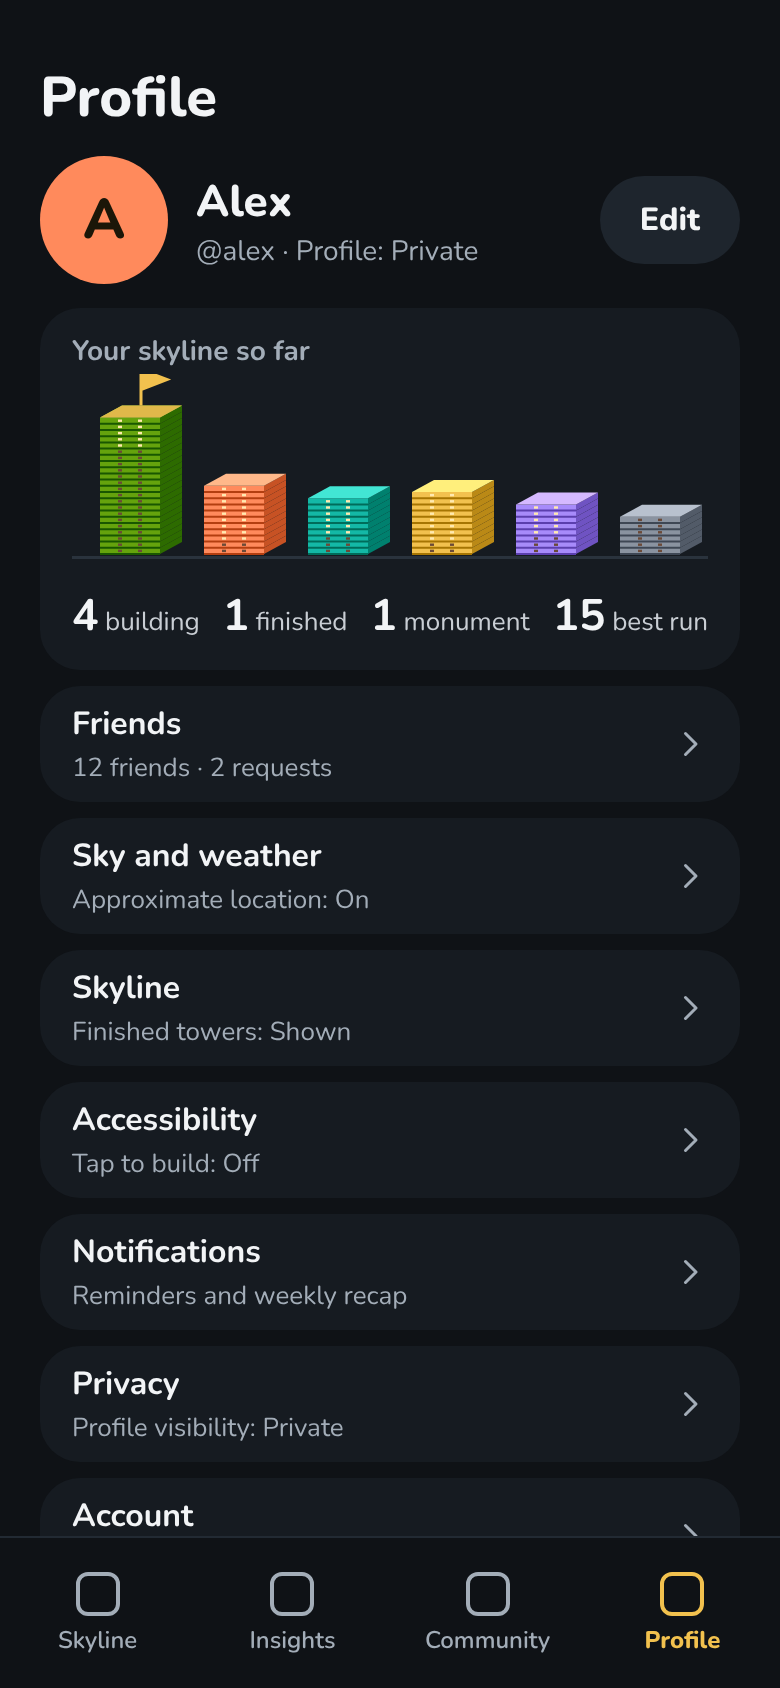
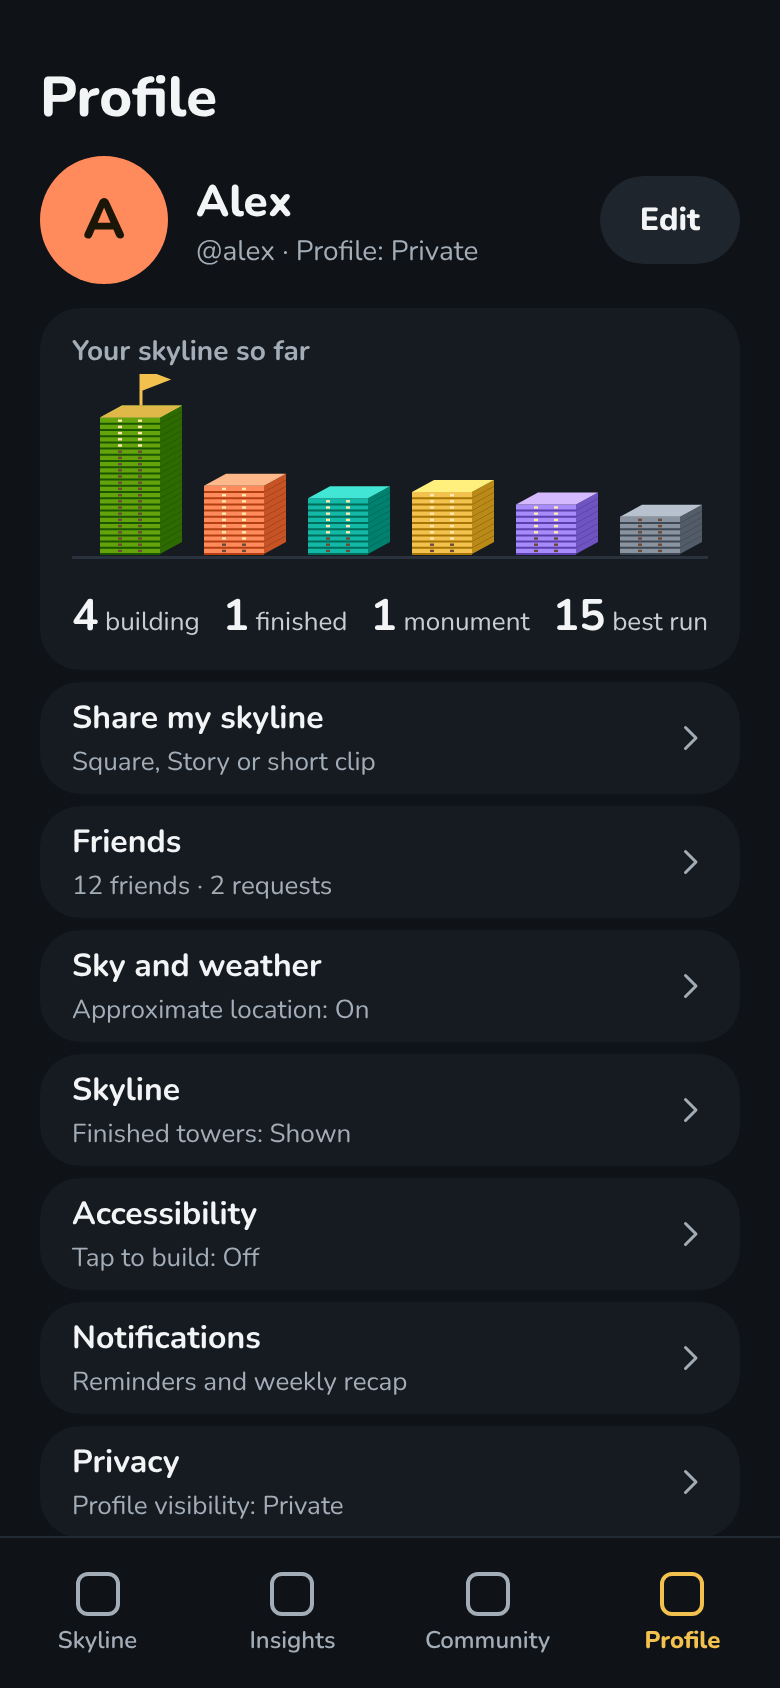
Design: share entry points on tower sheet and Profile
Claude-Session: https://claude.ai/code/session_01UvWD32uMFJU1E2B9jDYiLg

diff --git a/design/skyline/source/old.js b/design/skyline/source/old.js
@@ -70,12 +70,12 @@ if(S3==='ch-detail'){
 if(S3==='pf-profile'){
   const T=[['#65A30D',22,5,'top'],['#FF8A5C',11,9],['#14B8A6',9,6],['#F2C14E',10,8],['#A78BFA',8,5],['#8A93A0',6,0,'mon']];
   let sc='';T.forEach(([c,n,l,k],i)=>{const x=14+i*52;const fl=k==='mon'?rep('dark',n):grow(n,l);sc+=tw(c,{x,base:90,w:30,fh:3.1,dx:11,dy:6,floors:fl,windows:2,today:false,wW:2,wH:1.2});if(k==='top')sc+=flagCap(x,90-n*3.1,30,11,6)});
-  const row=(t,s)=>`<div style="background:#161B21;border-radius:20px;padding:8px 16px;display:flex;align-items:center;gap:10px;margin-top:8px"><div style="flex:1"><b style="font-size:16px">${t}</b><div style="color:#A3ADB8;font-size:13px;margin-top:2px">${s}</div></div>${ico('chev',18,'#A3ADB8')}</div>`;
+  const row=(t,s)=>`<div style="background:#161B21;border-radius:20px;min-height:56px;padding:0 16px;display:flex;align-items:center;gap:10px;margin-top:6px"><div style="flex:1"><b style="font-size:16px">${t}</b><div style="color:#A3ADB8;font-size:13px;margin-top:2px">${s}</div></div>${ico('chev',18,'#A3ADB8')}</div>`;
   R.innerHTML=`<div style="position:absolute;inset:0;overflow:hidden"><div style="padding:30px 20px 0"><h1 style="font-size:28px">Profile</h1>
    <div style="display:flex;align-items:center;gap:14px;margin-top:10px"><div style="width:64px;height:64px;border-radius:32px;background:#FF8A5C;color:#1b1608;font-weight:800;font-size:28px;display:flex;align-items:center;justify-content:center">A</div><div style="flex:1"><div style="font-size:22px;font-weight:800">Alex</div><div style="color:#A3ADB8;font-size:14px">@alex · Profile: Private</div></div><div style="height:44px;padding:0 20px;border-radius:22px;background:#1E252D;display:flex;align-items:center;font-weight:800;font-size:16px">Edit</div></div>
    <div style="margin-top:12px;background:#161B21;border-radius:20px;padding:12px 16px"><div style="color:#A3ADB8;font-size:14px;font-weight:700">Your skyline so far</div><svg width="318" height="98" style="display:block;margin-top:2px">${sc}<rect x="0" y="91" width="318" height="1.5" fill="#2A333D"/></svg>
     <div style="display:flex;justify-content:space-between;margin-top:8px;font-size:13px;color:#C9CED4">${[['4','building'],['1','finished'],['1','monument'],['15','best run']].map(([v,l])=>`<span><b style="font-size:22px;color:#F2F4F6">${v}</b> ${l}</span>`).join('')}</div></div>
-   ${row('Friends','12 friends · 2 requests')}${row('Sky and weather','Approximate location: On')}${row('Skyline','Finished towers: Shown')}${row('Accessibility','Tap to build: Off')}${row('Notifications','Reminders and weekly recap')}${row('Privacy','Profile visibility: Private')}${row('Account','Sign-in, data export, delete')}</div></div>${tabBar(3)}`;
+   ${row('Share my skyline','Square, Story or short clip')}${row('Friends','12 friends · 2 requests')}${row('Sky and weather','Approximate location: On')}${row('Skyline','Finished towers: Shown')}${row('Accessibility','Tap to build: Off')}${row('Notifications','Reminders and weekly recap')}${row('Privacy','Profile visibility: Private')}${row('Account','Sign-in, data export, delete')}</div></div>${tabBar(3)}`;
 }
 
 const night=(w,h,id)=>`<defs><linearGradient id="${id}" x1="0" y1="0" x2="0" y2="1"><stop offset="0" stop-color="#0B1030"/><stop offset="1" stop-color="#232a5a"/></linearGradient></defs><rect width="${w}" height="${h}" fill="url(#${id})"/>${Array.from({length:60},(_,i)=>`<circle cx="${(i*97)%w}" cy="${(i*53)%(h-60)+6}" r="${i%3?.9:1.4}" fill="#dfe6ff" opacity="${.35+(i%4)*.15}"/>`).join('')}`;

diff --git a/design/skyline/source/screens.html b/design/skyline/source/screens.html
@@ -82,6 +82,7 @@ if(screen==='towersheet'){
       <div style="width:14px;height:36px;border-radius:5px;background:${C.front}"></div>
       <div><div style="color:var(--muted);font-size:12px;font-weight:800;letter-spacing:.8px">TOWER DETAILS</div><h1 style="font-size:22px;line-height:1.15">Write 300 words</h1>
       <div style="color:var(--muted);font-size:13px;margin-top:1px">Daily · Floor 24 · Under construction</div><div style="color:#C9CED4;font-size:13px;font-style:italic;margin-top:3px">“So the book gets finished”</div></div>
+    <div style="margin-left:auto;width:44px;height:44px;border-radius:22px;background:#1E252D;display:flex;align-items:center;justify-content:center;flex:0 0 44px"><svg width="20" height="20" viewBox="0 0 24 24" fill="none" stroke="#F2F4F6" stroke-width="2" stroke-linecap="round" stroke-linejoin="round"><path d="M12 15V3M8 7l4-4 4 4M5 12v7h14v-7"/></svg></div>
     </div>
     <div style="display:flex;gap:16px;margin-top:8px">
       <svg width="104" height="226" style="flex:0 0 104px">${tower({x:22,base:222,w:44,fh:7,dx:16,dy:9,floors,windows:2,ledgeAfter:17})}</svg>

diff --git a/design/skyline/README.md b/design/skyline/README.md
@@ -125,3 +125,6 @@ Opened from the tower sheet and from a Share entry for the whole skyline. The ca
 | 84 | `84-share-skyline-story.png` | whole skyline, 9:16 |
 | 85 | `85-share-sky-and-colour-variants.png` | night, clear day, dusk, rain; tower uses the habit colour |
 | 86 | `86-share-sheet.png` | choose This tower or My whole skyline, format Square / Story / Clip, Show @username switch, preview, Share, Save to photos |
+
+## Share entry points (PROPOSAL 2026-11-24)
+Board 03 (tower sheet): a 44 round share icon at the right of the sheet header opens the share sheet (86) for that tower. Apply the same header icon to the other tower sheets (24, 56, 74 to 77). Board 15 (Profile): a "Share my skyline" row, first in the list under the skyline card, opens the share sheet (86) with "My whole skyline" selected.
